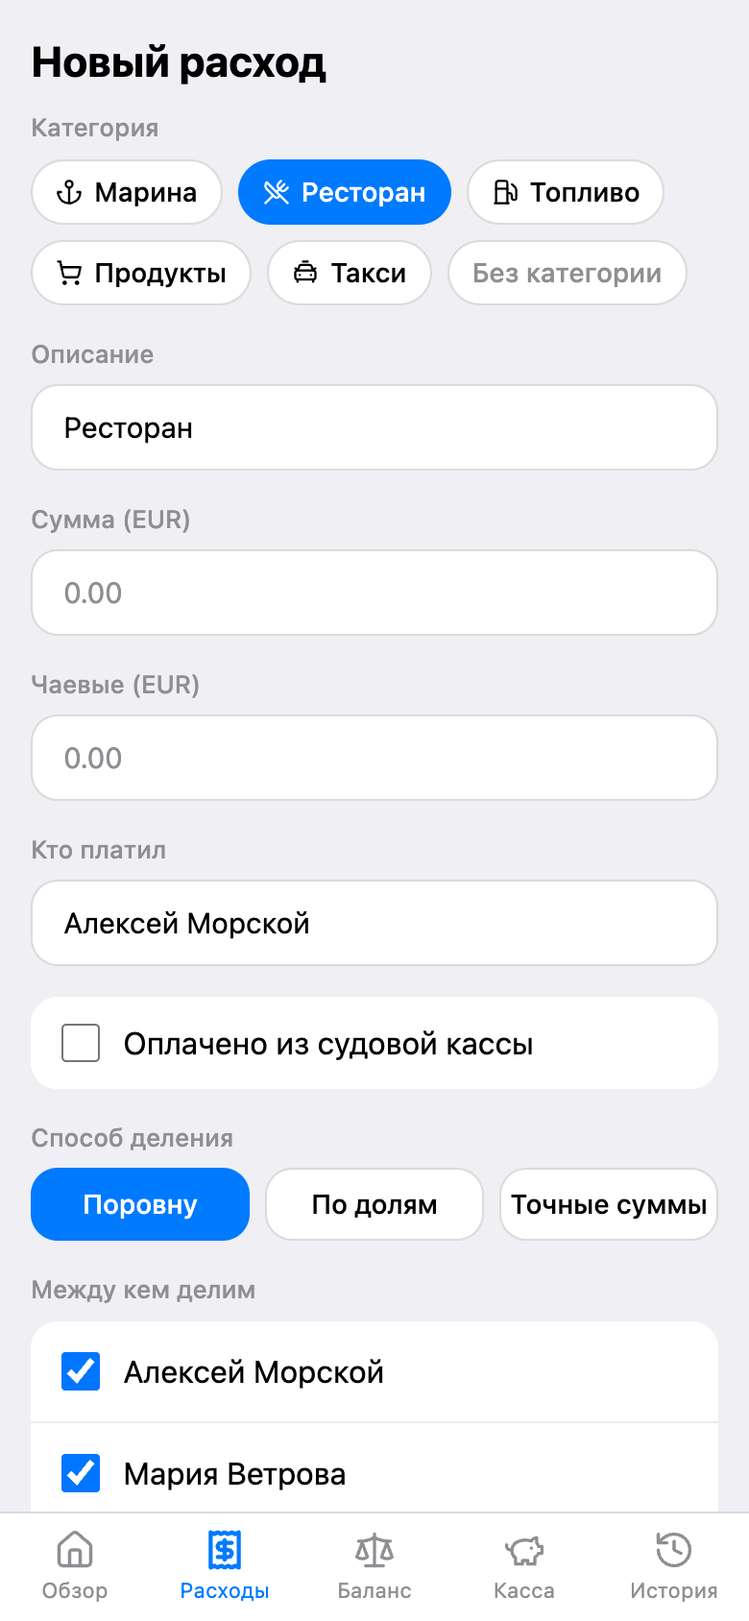
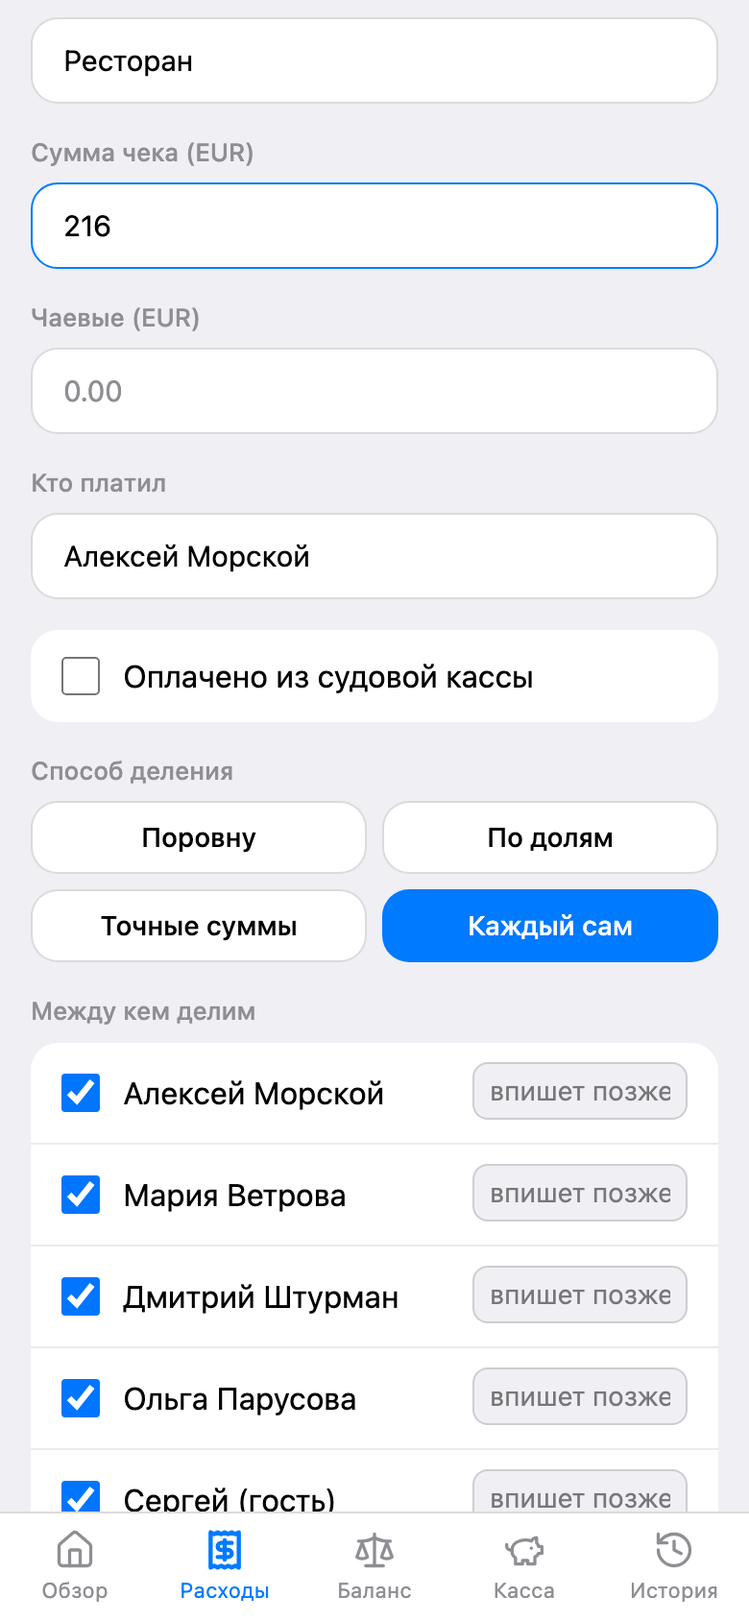
docs: лендинг и README — ресторан «каждый за себя», траты участников, новые скриншоты
Также демо-сид получил открытый счёт и снова перезапускается без ошибок FK.

diff --git a/docs/index.html b/docs/index.html
@@ -6,14 +6,14 @@
     <title>CharterSplit — общие расходы поездки в Telegram</title>
     <meta
       name="description"
-      content="Добавьте @chartersplit_bot в чат поездки — и делите расходы, ведите общую кассу и узнавайте, кто кому сколько должен. Без регистрации и установки."
+      content="Добавьте @chartersplit_bot в чат поездки — делите расходы, ведите общую кассу, делите счёт в ресторане «каждый за себя» и узнавайте, кто кому сколько должен. Без регистрации и установки."
     />
     <meta name="theme-color" content="#0b6fb8" />
     <meta property="og:type" content="website" />
     <meta property="og:title" content="CharterSplit — общие расходы поездки в Telegram" />
     <meta
       property="og:description"
-      content="Добавьте @chartersplit_bot в чат поездки — касса, доли, чаевые и «кто кому сколько» без таблиц и споров."
+      content="Добавьте @chartersplit_bot в чат поездки — касса, доли, чаевые, ресторан «каждый за себя» и «кто кому сколько» без таблиц и споров."
     />
     <meta
       property="og:image"
@@ -653,6 +653,12 @@
       .chat.play .msg:nth-child(5) {
         transition-delay: 2.5s;
       }
+      .chat.play .msg:nth-child(6) {
+        transition-delay: 3.2s;
+      }
+      .chat.play .msg:nth-child(7) {
+        transition-delay: 3.9s;
+      }
       .msg.me {
         justify-self: end;
         background: var(--bubble-me);
@@ -1075,8 +1081,8 @@
             </h1>
             <p class="lead">
               Добавьте бота в Telegram-группу поездки — и забудьте про таблицы, чеки в
-              заметках и споры в конце отпуска. Касса, доли, чаевые и «кто кому сколько»
-              считаются сами.
+              заметках и споры в конце отпуска. Касса, доли, чаевые, счёт в ресторане
+              «каждый за себя» и «кто кому сколько» считаются сами.
             </p>
             <div class="hero-cta">
               <a class="btn btn-tg" href="https://t.me/chartersplit_bot?startgroup=true">
@@ -1098,15 +1104,15 @@
 
           <div class="phones reveal" aria-hidden="true">
             <div class="sticker s1">
-              🧾 Ужин в&nbsp;марине<small>380 € · поровну на 6</small>
+              🍽 Ужин в&nbsp;Konoba Pojoda<small>236 € · каждый вписывает своё</small>
             </div>
             <div class="phone p1">
               <picture>
                 <source
-                  srcset="screenshots/expenses-dark.png"
+                  srcset="screenshots/claim-dark.png"
                   media="(prefers-color-scheme: dark)"
                 />
-                <img src="screenshots/expenses-light.png" alt="" />
+                <img src="screenshots/claim-light.png" alt="" />
               </picture>
             </div>
             <div class="phone p2">
@@ -1121,14 +1127,14 @@
             <div class="phone p3">
               <picture>
                 <source
-                  srcset="screenshots/balances-dark.png"
+                  srcset="screenshots/stats-dark.png"
                   media="(prefers-color-scheme: dark)"
                 />
-                <img src="screenshots/balances-light.png" alt="" />
+                <img src="screenshots/stats-light.png" alt="" />
               </picture>
             </div>
             <div class="sticker s2">
-              Ваш баланс<small class="pos">+579,92 € — вам должны</small>
+              Ваш баланс<small class="pos">+756,41 € — вам должны вернуть</small>
             </div>
           </div>
         </div>
@@ -1230,16 +1236,27 @@
                 чтобы открыть общие расходы, судовую кассу и взаиморасчёты.
                 <div class="msg-btn">🧾 Открыть CharterSplit</div>
               </div>
+              <div class="msg bot">
+                <span class="who b">CharterSplit</span>
+                💸 <b>Ужин в Konoba Pojoda</b> — <b>236,00 €</b><br />
+                Оплата: Алексей · каждый вносит свою часть
+                <div class="row"><span>• Алексей ✓</span><b>59,51 €</b></div>
+                <div class="row"><span>• Мария ✓</span><b>55,51 €</b></div>
+                <div class="row">
+                  <span>• Дмитрий · ещё не внесено</span><b>17,50 €</b>
+                </div>
+                <div class="msg-btn">✍ Внести свою часть</div>
+              </div>
               <div class="msg me">
-                <span class="who">Марина</span>
-                Записала ужин и топливо 👌
+                <span class="who">Дмитрий</span>
+                Вписал свои 24,50 — паста и пиво 🍝
               </div>
               <div class="msg bot">
                 <span class="who b">CharterSplit</span>
                 <b>Взаиморасчёты</b>
-                <div class="row"><span>• Ольга → Алексей</span><b>249,30 €</b></div>
-                <div class="row"><span>• Сергей → Алексей</span><b>241,67 €</b></div>
-                <div class="row"><span>• Мария → Алексей</span><b>88,95 €</b></div>
+                <div class="row"><span>• Ольга → Алексей</span><b>335,29 €</b></div>
+                <div class="row"><span>• Сергей → Алексей</span><b>259,16 €</b></div>
+                <div class="row"><span>• Мария → Алексей</span><b>150,76 €</b></div>
                 <div class="msg-btn">🧾 Открыть CharterSplit</div>
               </div>
               <div class="msg me">
@@ -1273,15 +1290,15 @@
               </p>
               <div class="split-modes">
                 <span>Поровну</span><span>По долям</span><span>Точными суммами</span
-                ><span>+ чаевые</span>
+                ><span>Каждый сам</span><span>+ чаевые</span>
               </div>
             </article>
             <article class="feature reveal" style="--accent: var(--sea)">
               <div class="ico">💸</div>
               <h3>Кто кому сколько</h3>
               <p>
-                Минимум переводов вместо запутанной паутины долгов. Отметить «вернул» —
-                один тап.
+                Минимум переводов вместо запутанной паутины долгов. Возврат долга или
+                наличные в долг — записываются одним переводом.
               </p>
             </article>
             <article class="feature reveal" style="--accent: var(--tg)">
@@ -1296,8 +1313,8 @@
               <div class="ico">👨👩👧</div>
               <h3>Семьи и дети</h3>
               <p>
-                Папа платит за ребёнка, а муж за жену? Свяжите участников — их расходы
-                посчитаются вместе.
+                Родители платят за детей, супруги — друг за друга? Свяжите участников — их
+                расходы посчитаются вместе.
               </p>
             </article>
             <article class="feature reveal" style="--accent: var(--sail-red)">
@@ -1330,6 +1347,28 @@
               <p>
                 Каждое изменение сохраняется: кто, что и когда добавил или поправил.
                 Никаких «а это откуда?».
+              </p>
+            </article>
+            <article class="feature big reveal" style="--accent: var(--sail-red)">
+              <div class="ico">🍽</div>
+              <h3>Ресторан: каждый за себя</h3>
+              <p>
+                Один платит по чеку, остальные сами вписывают, сколько вышло у них, —
+                кнопкой «Внести свою часть» прямо из чата, можно по позициям. Общее вино,
+                хлеб и чаевые делятся поровну, карточка в чате обновляется после каждого
+                ввода.
+              </p>
+              <div class="split-modes">
+                <span>Внесли 4 из 6</span><span>Не распределено 60,50 €</span
+                ><span>✍ Внести свою часть</span>
+              </div>
+            </article>
+            <article class="feature reveal" style="--accent: var(--violet)">
+              <div class="ico">📊</div>
+              <h3>Сколько потрачено на каждого</h3>
+              <p>
+                Круговая диаграмма и разбивка по категориям: сколько ушло на каждого —
+                марина, ресторан, продукты. Семья — одним сегментом.
               </p>
             </article>
           </div>
@@ -1376,7 +1415,7 @@
                 />
               </picture>
             </div>
-            <figcaption>Новый расход<small>три способа деления</small></figcaption>
+            <figcaption>Новый расход<small>четыре способа деления</small></figcaption>
           </figure>
           <figure>
             <div class="phone">
@@ -1409,6 +1448,40 @@
               </picture>
             </div>
             <figcaption>Взаиморасчёты<small>кто кому сколько платит</small></figcaption>
+          </figure>
+          <figure>
+            <div class="phone">
+              <picture>
+                <source
+                  srcset="screenshots/stats-dark.png"
+                  media="(prefers-color-scheme: dark)"
+                />
+                <img
+                  src="screenshots/stats-light.png"
+                  alt="Сколько потрачено на каждого"
+                  loading="lazy"
+                />
+              </picture>
+            </div>
+            <figcaption>Траты<small>на кого сколько ушло</small></figcaption>
+          </figure>
+          <figure>
+            <div class="phone">
+              <picture>
+                <source
+                  srcset="screenshots/claim-dark.png"
+                  media="(prefers-color-scheme: dark)"
+                />
+                <img
+                  src="screenshots/claim-light.png"
+                  alt="Моя часть счёта"
+                  loading="lazy"
+                />
+              </picture>
+            </div>
+            <figcaption>
+              Моя часть счёта<small>ресторан «каждый за себя»</small>
+            </figcaption>
           </figure>
           <figure>
             <div class="phone">
@@ -1548,6 +1621,23 @@
               <p>
                 Добавьте его гостем — он будет участвовать в расходах и расчётах наравне
                 со всеми.
+              </p>
+            </details>
+            <details class="reveal">
+              <summary>Как делить счёт в ресторане, если каждый ел своё?</summary>
+              <p>
+                Выберите способ деления «Каждый сам» (для категории «Ресторан» он
+                включается сразу) и введите сумму чека. В чате появится карточка с кнопкой
+                «Внести свою часть» — каждый впишет, сколько вышло у него. Что осталось
+                нераспределённым (вино, хлеб) и чаевые — поровну на всех.
+              </p>
+            </details>
+            <details class="reveal">
+              <summary>Где записать долг или возврат наличными?</summary>
+              <p>
+                На вкладке «Баланс» — кнопка «Записать перевод денег»: кто отдал деньги и
+                кто получил. Балансы пересчитаются, а в тратах поездки перевод не
+                учитывается.
               </p>
             </details>
             <details class="reveal">

diff --git a/backend/prisma/seed.ts b/backend/prisma/seed.ts
@@ -1,5 +1,6 @@
 // Демо-данные для локальной разработки и скриншотов: поездка на яхте с
-// участниками, расходами всеми способами деления, кассой и взаиморасчётом.
+// участниками, расходами всеми способами деления (включая открытый счёт),
+// кассой и взаиморасчётом.
 //
 //   SEED_DEMO=1 npm run seed --workspace backend   (или npm run seed:demo)
 //
@@ -37,6 +38,12 @@ async function main() {
     throw new Error('seed: демо-данные не создаются при NODE_ENV=production');
   }
 
+  // Сначала записи, ссылающиеся на участников (у этих связей onDelete: Restrict),
+  // иначе каскадное удаление поездки упирается во внешние ключи.
+  const demoTrip = { trip: { telegramChatId: DEMO_CHAT_ID } };
+  await prisma.expense.deleteMany({ where: demoTrip });
+  await prisma.settlement.deleteMany({ where: demoTrip });
+  await prisma.fundTransaction.deleteMany({ where: demoTrip });
   await prisma.trip.deleteMany({ where: { telegramChatId: DEMO_CHAT_ID } });
 
   const people = [
@@ -285,6 +292,24 @@ async function main() {
       payer: alex,
       when: at(0, 11, 30),
       participants: equal(adults),
+    },
+    {
+      // «Открытый счёт»: каждый вносит свою часть сам, двое ещё не внесли.
+      description: 'Ужин в Konoba Pojoda',
+      category: 'Ресторан',
+      amount: 21_600,
+      tip: 2_000,
+      payer: alex,
+      when: at(0, 20, 45),
+      split: SplitType.SELF,
+      participants: [
+        { memberId: alex.id, claimed: 4_200 },
+        { memberId: maria.id, claimed: 3_800 },
+        { memberId: dima.id, claimed: null },
+        { memberId: olga.id, claimed: 3_500 },
+        { memberId: sergey.id, claimed: null },
+        { memberId: misha.id, claimed: 1_600 },
+      ],
     },
   ];
 

diff --git a/README.md b/README.md
@@ -35,7 +35,7 @@
   <tr>
     <td align="center"><picture><source media="(prefers-color-scheme: dark)" srcset="docs/screenshots/overview-dark.png"><img src="docs/screenshots/overview-light.png" width="220" alt="Обзор поездки"></picture><br><sub>Обзор: баланс, касса, динамика трат</sub></td>
     <td align="center"><picture><source media="(prefers-color-scheme: dark)" srcset="docs/screenshots/expenses-dark.png"><img src="docs/screenshots/expenses-light.png" width="220" alt="Список расходов"></picture><br><sub>Расходы по дням</sub></td>
-    <td align="center"><picture><source media="(prefers-color-scheme: dark)" srcset="docs/screenshots/new-expense-dark.png"><img src="docs/screenshots/new-expense-light.png" width="220" alt="Новый расход"></picture><br><sub>Новый расход: три способа деления</sub></td>
+    <td align="center"><picture><source media="(prefers-color-scheme: dark)" srcset="docs/screenshots/new-expense-dark.png"><img src="docs/screenshots/new-expense-light.png" width="220" alt="Новый расход"></picture><br><sub>Новый расход: четыре способа деления</sub></td>
     <td align="center"><picture><source media="(prefers-color-scheme: dark)" srcset="docs/screenshots/balances-dark.png"><img src="docs/screenshots/balances-light.png" width="220" alt="Взаиморасчёты"></picture><br><sub>Кто кому сколько платит</sub></td>
   </tr>
   <tr>
@@ -44,6 +44,12 @@
     <td align="center"><picture><source media="(prefers-color-scheme: dark)" srcset="docs/screenshots/history-dark.png"><img src="docs/screenshots/history-light.png" width="220" alt="История операций"></picture><br><sub>История операций</sub></td>
     <td align="center"><picture><source media="(prefers-color-scheme: dark)" srcset="docs/screenshots/settings-dark.png"><img src="docs/screenshots/settings-light.png" width="220" alt="Настройки"></picture><br><sub>Настройки поездки</sub></td>
   </tr>
+  <tr>
+    <td align="center"><picture><source media="(prefers-color-scheme: dark)" srcset="docs/screenshots/claim-dark.png"><img src="docs/screenshots/claim-light.png" width="220" alt="Моя часть счёта"></picture><br><sub>Ресторан: каждый вносит свою часть</sub></td>
+    <td align="center"><picture><source media="(prefers-color-scheme: dark)" srcset="docs/screenshots/stats-dark.png"><img src="docs/screenshots/stats-light.png" width="220" alt="Сколько потрачено на каждого"></picture><br><sub>Сколько потрачено на каждого</sub></td>
+    <td></td>
+    <td></td>
+  </tr>
 </table>
 
 Приложение подхватывает цвета темы Telegram — светлой и тёмной. Скриншоты сняты на демо-данных
@@ -51,11 +57,18 @@
 
 ## Возможности
 
-- **Расходы** — поровну, по долям (весам) или точными суммами; чаевые делятся поровну между
-  участниками расхода; расход можно оплатить из судовой кассы.
+- **Расходы** — поровну, по долям (весам), точными суммами или «каждый сам»; чаевые делятся
+  поровну между участниками расхода; расход можно оплатить из судовой кассы.
+- **Ресторан «каждый за себя»** — плательщик вводит сумму чека, остальные сами вписывают свою
+  часть (можно по позициям) по кнопке «Внести свою часть» из карточки в чате; нераспределённый
+  остаток и чаевые делятся поровну. Карточка обновляется после каждого ввода, счёт можно
+  закрыть. Для категории «Ресторан» этот способ выбирается по умолчанию.
 - **Судовая касса** — взносы, выплаты, корректировки, баланс и расходы, оплаченные из кассы.
 - **Взаиморасчёты** — балансы участников и короткий список переводов «кто кому платит»;
-  погашения отмечаются в один тап.
+  возврат долга отмечается в один тап, а займы и возвраты наличными записываются как переводы
+  денег (в траты поездки они не входят).
+- **Сколько потрачено на каждого** — круговая диаграмма (семья — одним сегментом) и разбивка
+  трат участника по категориям рядом с тем, сколько участник оплатил за всех.
 - **Участники** — из Telegram (автоматически по переписке в чате), по `@username` или гости
   без аккаунта. Деактивация сохраняет историю.
 - **Семейные связи** — расходы участника покрывает другой (например, родитель за ребёнка).
@@ -301,8 +314,10 @@ CharterSplit/
 - **Поровну**: остаток от деления достаётся первым участникам по одной копейке.
 - **По долям**: метод наибольшего остатка — сумма долей всегда сходится до копейки.
 - **Чаевые** хранятся отдельно от долей и делятся поровну между участниками расхода.
-- **Баланс** участника = заплатил − его доли ± погашения. Семейные связи переносят чистый
-  эффект участника на покрывающего прямо при расчёте.
+- **«Каждый сам»**: доля = своя часть + равная доля нераспределённого остатка чека.
+- **Баланс** участника = оплачено − его доли − получено переводами + отдано переводами.
+  Семейные связи переносят чистый эффект участника на того, кто оплачивает его расходы,
+  прямо при расчёте.
 - **Переводы** строятся жадно: крупнейший должник платит крупнейшему кредитору — не больше
   n−1 перевода на n участников.
 - **Касса** = взносы − выплаты ± корректировки − расходы, оплаченные из кассы.
@@ -315,7 +330,7 @@ CharterSplit/
   только после проверки через Bot API, что он состоит в этом чате.
 - Вебхук защищён секретом в пути и заголовке; секрет, `initData` и cookie вырезаются из логов.
 - Внутри поездки участники равноправны: любой может добавлять и править расходы, кассу и
-  погашения. Название, валюту, настройки и активность участников меняет только владелец.
+  переводы денег. Название, валюту, настройки и активность участников меняет только владелец.
 
 Нашли уязвимость — см. [SECURITY.md](SECURITY.md).
 
